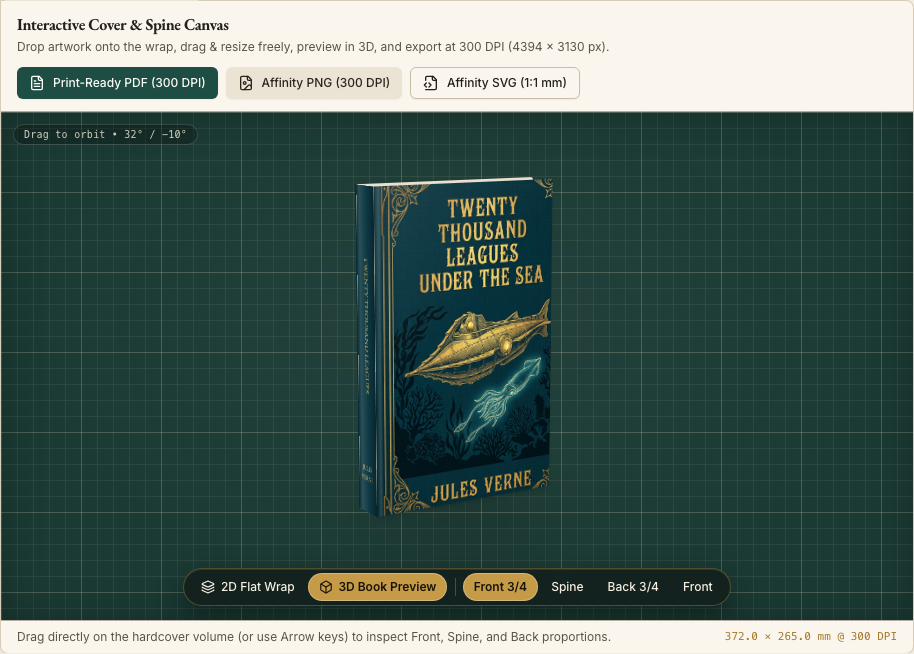
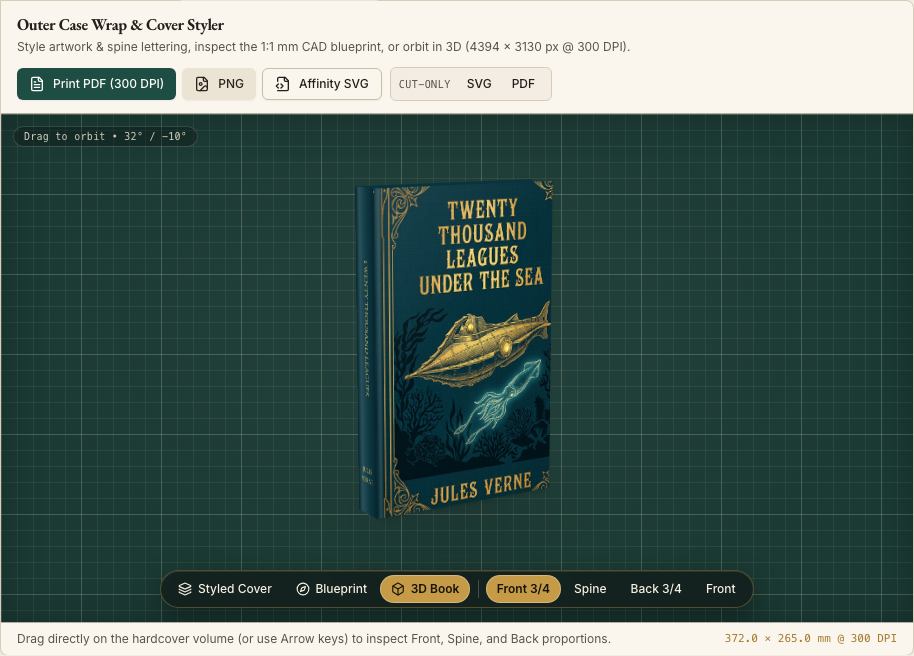
docs: add styled inner pockets screenshot and update roadmap for unified two-tab workbench

diff --git a/docs/ROADMAP.md b/docs/ROADMAP.md
@@ -21,11 +21,12 @@ Related docs: [SPEC.md](./SPEC.md) · [DEPLOYMENT.md](./DEPLOYMENT.md) · [RESEA
 - [x] **Colors & Eyedropper:** Independent Back, Spine & Hinges, and Front base color pickers plus click-to-sample eyedropper mapped via SVG `getScreenCTM`.
 - [x] **Spine Typography (`src/studio/fonts.ts`, `src/studio/SpineTypographyCard.tsx`):** Separate Title/Author inputs, Inline vs. Stacked presets, US/UK vs. European reading orientation, Vertical vs. Horizontal author writing toggle, 6 bundled offline `@fontsource/*` fonts, custom `.ttf`/`.otf`/`.woff`/`.woff2` `FontFace` uploader, automatic font-size clamping (`≤ SPINE_W - 4.0 mm`), and `±2.0 mm` optical horizontal nudge.
 - [x] **Bindery Cutting Mat UI & Interactive 3D Book Preview (`src/studio/Book3DPreview.tsx`, `src/components/FloatingHudToolbar.tsx`):** Self-healing spruce cutting-mat workbench, warm cotton-rag paper sheets, kettle-stitch dividers, collapsible Book Spec rail, folder-style paper index tabs, accessible floating HUD pill toolbars, and a live rotatable CSS 3D folded hardcover book mockup rendered at exact `BOARD_W × BOARD_H × SPINE_W` proportions.
-- [x] **Live Print Preflight Consistency Checker (`src/studio/preflight.ts`, `src/studio/PreflightCard.tsx`):** Real-time verification of front/back board & turn-in/bleed coverage gaps, effective print DPI, WCAG 2.1 spine text contrast, spine hinge clearance, and structural readiness—with preview-only red diagonal-hatched canvas warning zones and one-click Quick Fix actions.
+- [x] **Unified Two-Tab Physical Workbench & Stylable Inner Pockets (`src/studio/InnerPocketsStudio.tsx`, `src/studio/pocketRenderEngine.ts`):** Merged duplicate Outer Wrap views into two physical tabs (**Outer Case Wrap** with `Styled Cover` / `Blueprint` / `3D Book` HUD + **Inner Pockets & Liner** with `Styled Pockets` / `Blueprint` HUD). Added endpaper color picker, **Match Cover Color** sync, custom picture upload (`Cover` / `Contain` / `Tile`, scale, opacity), and 300 DPI **Styled Pockets PDF** export.
+- [x] **Live Print Preflight Consistency Checker (`src/studio/preflight.ts`, `src/studio/PreflightCard.tsx`):** Real-time verification of front/back board & turn-in/bleed coverage gaps, effective print DPI, WCAG 2.1 spine text contrast, spine hinge clearance, and structural readiness—with preview-only red diagonal-hatched gap zones, red DPI outlines, and one-click Quick Fix actions.
 - [x] **300 DPI Dual Exports (`src/studio/renderEngine.ts`):** Print-Ready Roll PDF (`outer_cover_print.pdf`) with embedded vector spine typography and cut-line vs. bleed-registration mark toggle; Affinity Round-Trip 300 DPI PNG (`outer_cover_300dpi.png`) and `1:1` mm SVG (`outer_cover_300dpi.svg`).
 
 ### Quality & Research
-- [x] **Automated Test Suite:** 79 Vitest unit/component tests (~85% coverage) + 9 Playwright Chromium behavioral E2E tests covering real downloads, interactive canvas manipulation, collapsible rail, 3D book orbiting, and live preflight warning overlays/quick fixes.
+- [x] **Automated Test Suite:** 82 Vitest unit/component tests (~81% coverage) + 10 Playwright Chromium behavioral E2E tests covering real downloads, interactive canvas manipulation, collapsible rail, 3D book orbiting, live preflight warning overlays/quick fixes, and styled inner pocket PDF exports.
 - [x] **Affinity Connector Research:** Documented feasibility and architectures in [RESEARCH.md](./RESEARCH.md).
 - [x] **Deployment Plan:** Documented GitHub Pages CI/CD plan in [DEPLOYMENT.md](./DEPLOYMENT.md).
 

diff --git a/README.md b/README.md
@@ -29,6 +29,10 @@ A client-side web application for DIY bookbinders to generate exact **1:1 millim
 
 ![Bookbinder Studio — Interactive 3D Folded Book Preview](./docs/screenshots/book-3d-preview.png)
 
+- **Stylable Inner Pockets & Spine Liner:** Style your slip-in pocket envelopes and spine liner with an endpaper base color picker, **Match Cover Color** sync, archival paper swatches, and optional custom endpaper pictures/patterns (`Cover`, `Contain`, or `Tile` with scale & opacity) — exporting a **Styled Pockets PDF** alongside plain `1:1 mm` Cut PDF & SVG templates.
+
+![Bookbinder Studio — Styled Inner Pockets & Spine Liner](./docs/screenshots/inner-pockets.png)
+
 - **300 DPI Dual Exports:**
   - **Print-Ready Roll PDF (`outer_cover_print.pdf`):** 300 DPI composited artwork + true embedded vector spine typography + toggle between *Bleed + Outer Corner Registration Marks Only* and *Full Cut & 45° Miter Hairline Guides*.
   - **Affinity Round-Trip (`outer_cover_300dpi.png` & `outer_cover_300dpi.svg`):** Exact 1:1 mm / 300 DPI flat cover + editable SVG layers for further graphic finishing in Affinity.
